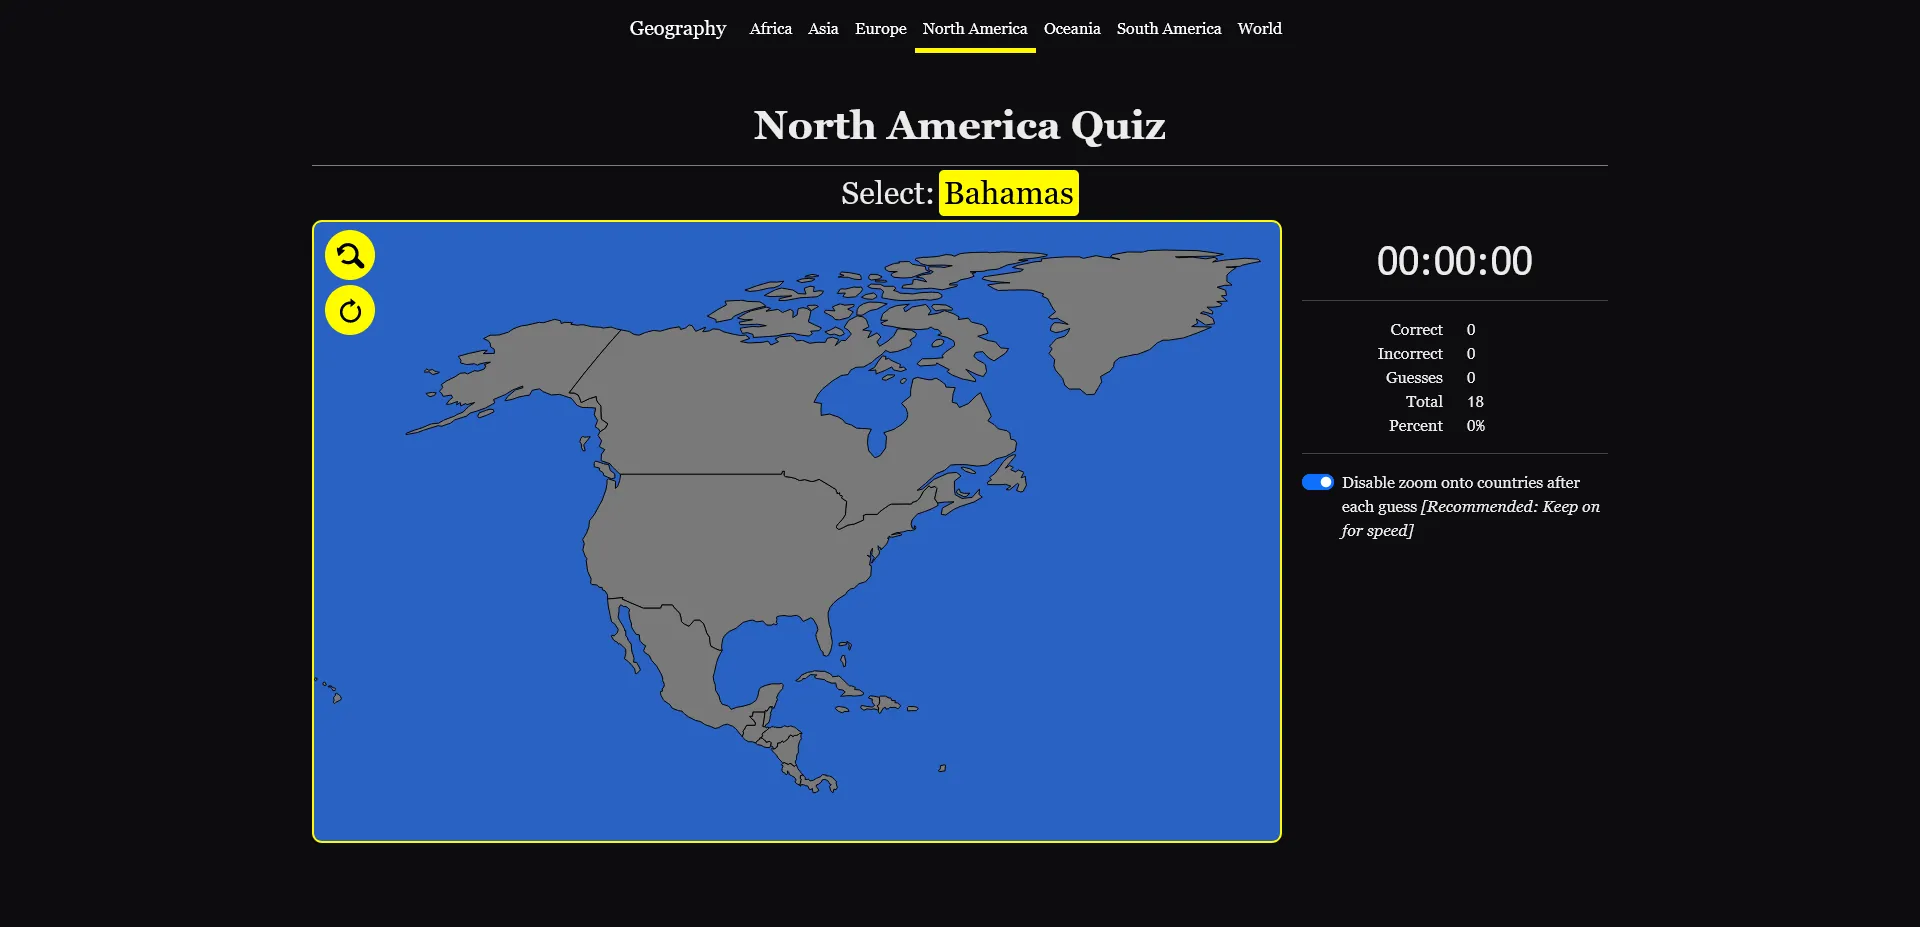
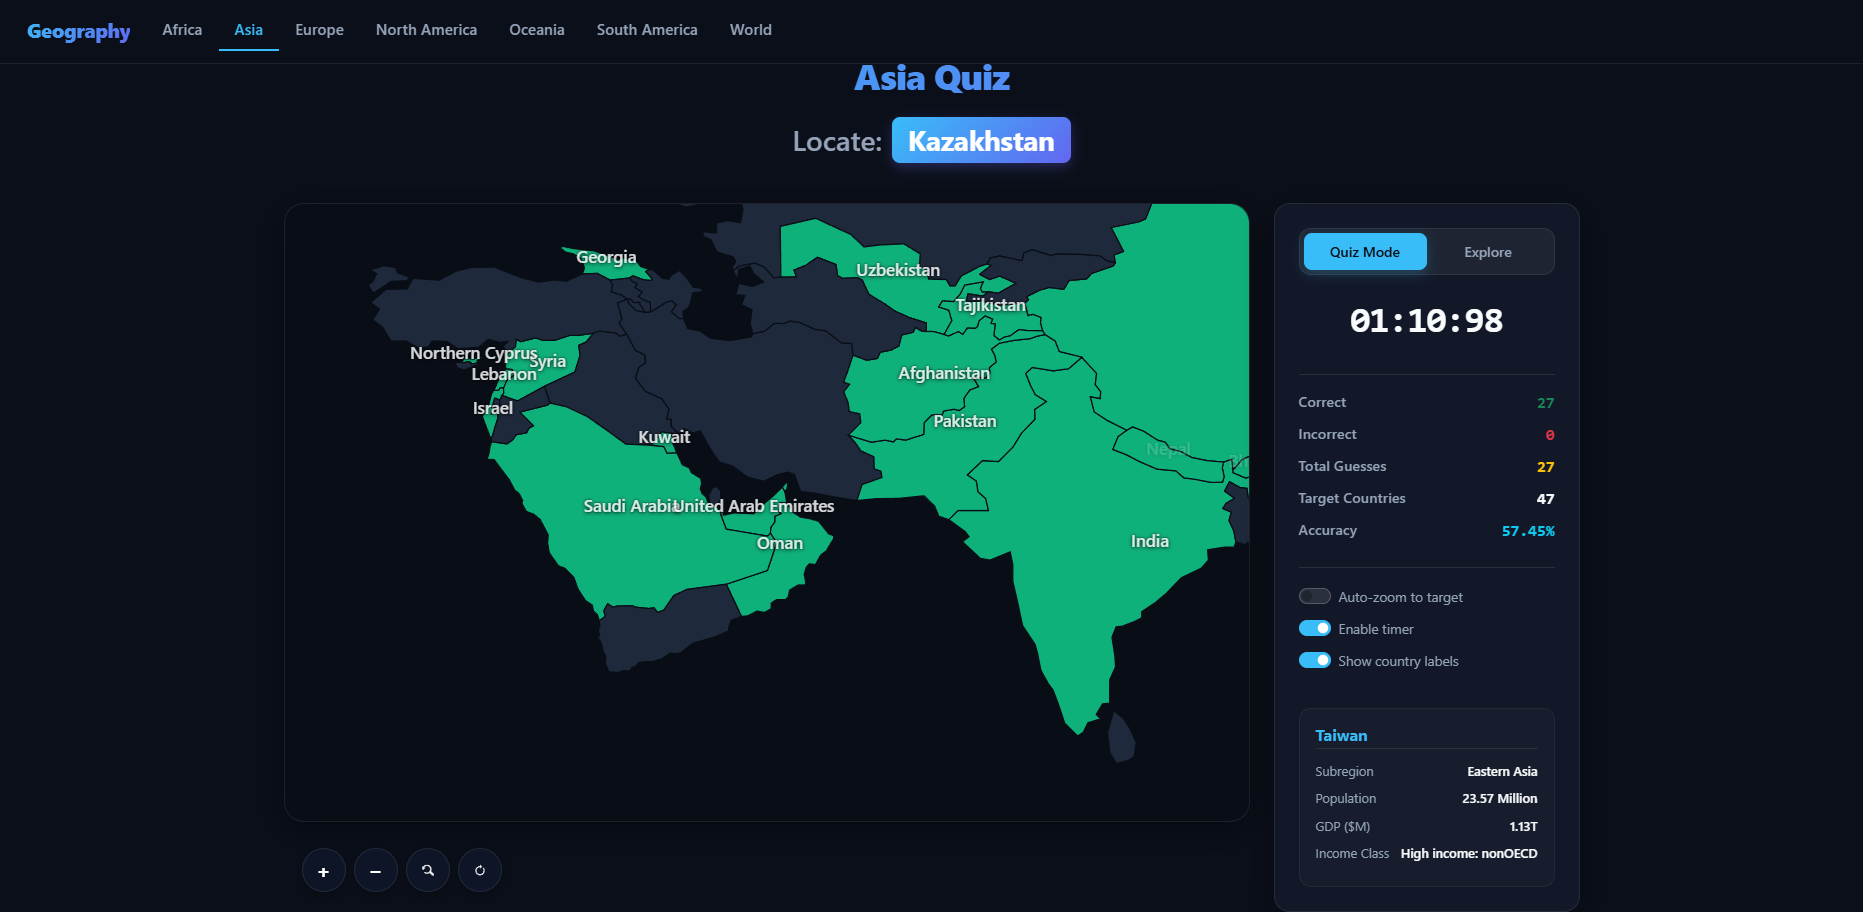
New Geography Quiz Images

diff --git a/content/portfolio/geography-quiz.md b/content/portfolio/geography-quiz.md
@@ -7,9 +7,10 @@ site: https://jtpeller.github.io/geography-quiz
 grabber: Test your geography skills!
 image_count: 3
 captions:
-    - Main Menu
-    - Beginning the North America Quiz
+    - Main Menu show scores!
+    - Working on the Asia Quiz
     - All Done!
+    - Explorer Mode!
 tags:
     - web
 languages: 